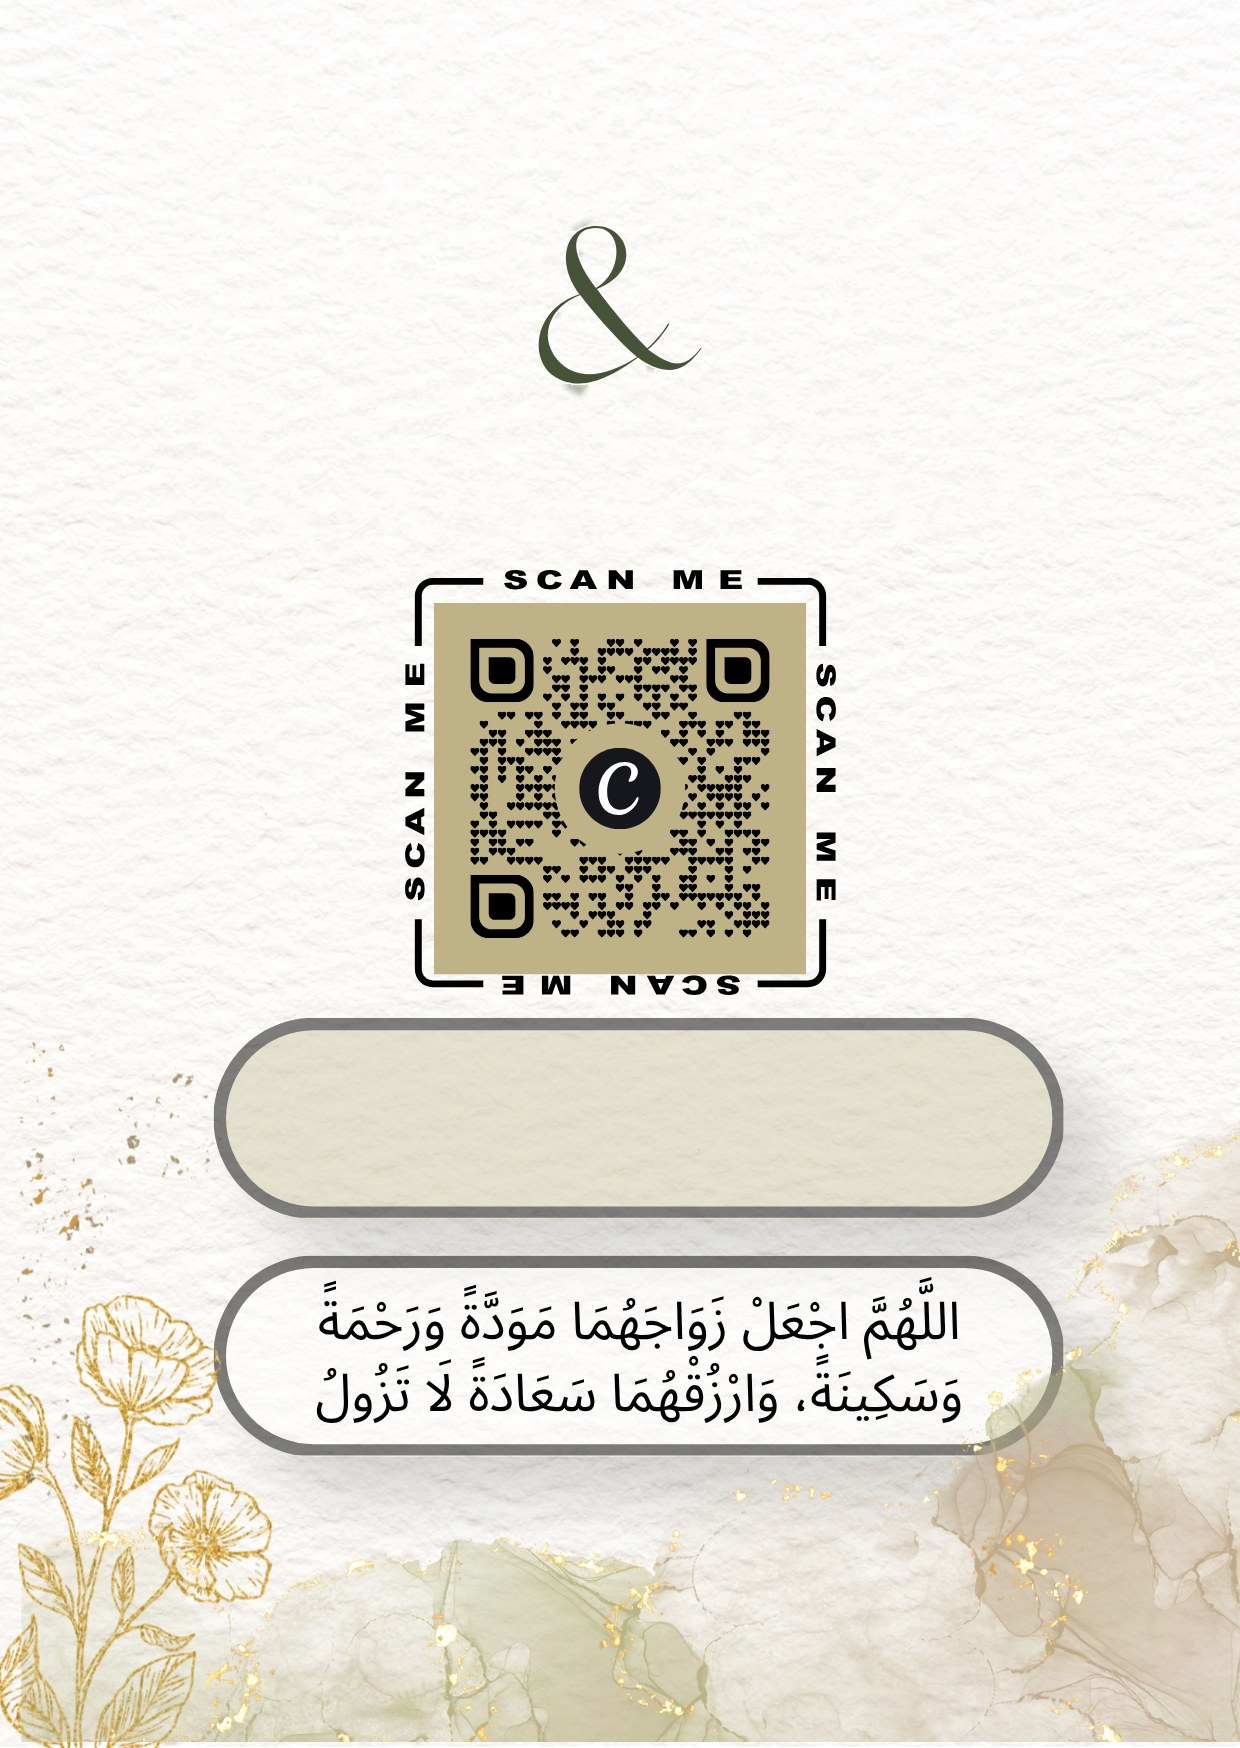
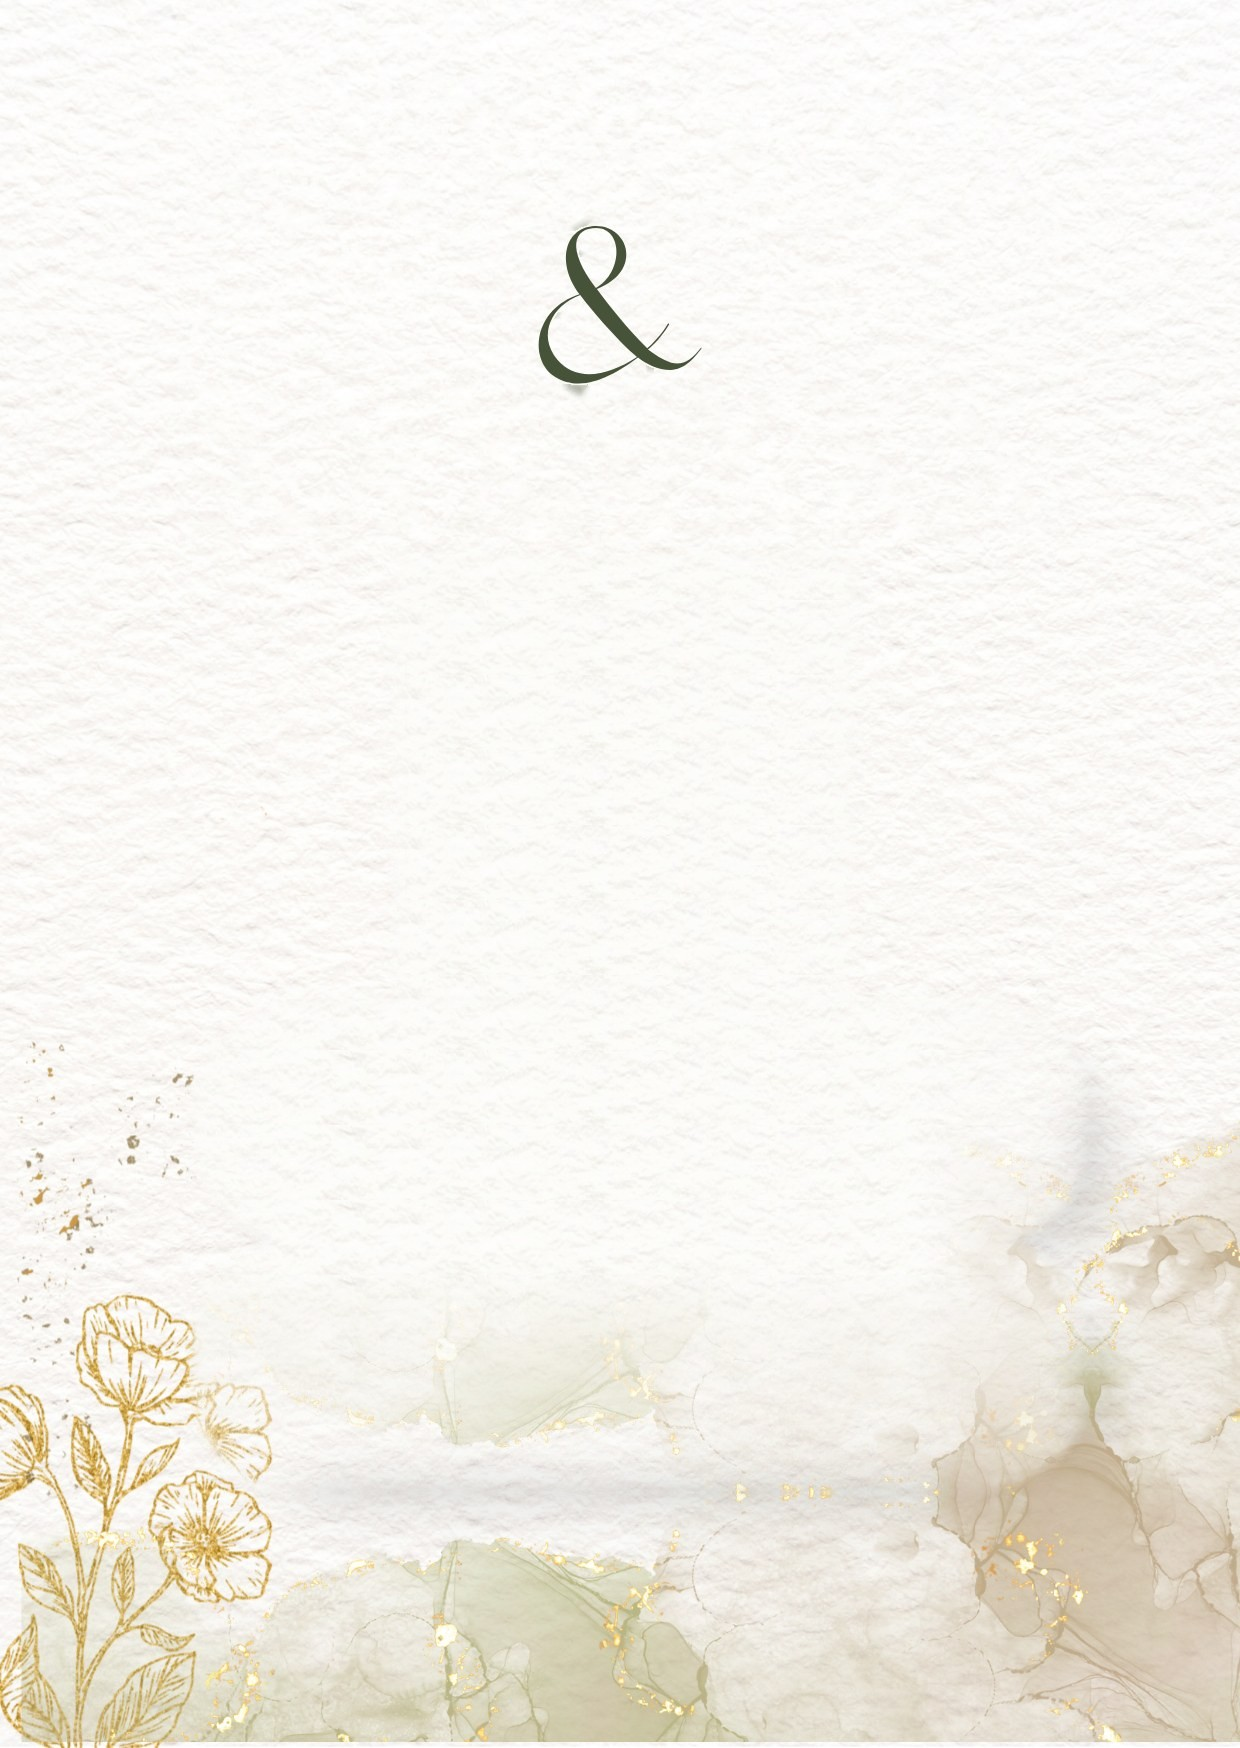
Carte : familles + texte d'invitation, 2 ovales en haut, QR en bas ; plus aucun lien (QR = code seul, message sans lien, vouvoiement)
Claude-Session: https://claude.ai/code/session_01TFZEW6Vd8rkpzaTNxLdMe2

Changed region(s): [[0.1532, 0.3089, 0.8887, 0.865]]

diff --git a/lib/card.js b/lib/card.js
@@ -21,9 +21,12 @@ function loadImage(src) {
   });
 }
 
+/** Contenu du QR : le code seul (aucun lien) */
+export const qrPayload = (token) => token;
+
 /** QR seul (PNG data URL) */
 export async function qrDataUrl(token, size = 1000) {
-  return QRCode.toDataURL(inviteUrl(token), {
+  return QRCode.toDataURL(qrPayload(token), {
     width: size,
     margin: 2,
     errorCorrectionLevel: "M",
@@ -31,10 +34,19 @@ export async function qrDataUrl(token, size = 1000) {
   });
 }
 
-/** Carte complète : fond + QR + nom, retourne un canvas */
+export function timesLine(s) {
+  return `Hommes : ${s.men_time}  ·  Femmes : ${s.women_time}`;
+}
+
+/** Carte : familles en haut, texte d'invitation, 2 ovales (infos + doua), QR en bas */
 export async function renderCard(settings, guest) {
   try {
-    await document.fonts.load(`600 80px ${NAME_FONT}`);
+    await Promise.all([
+      document.fonts.load(`600 80px ${NAME_FONT}`),
+      document.fonts.load(`italic 500 40px ${NAME_FONT}`),
+      document.fonts.load("400 40px Amiri"),
+      document.fonts.load("600 40px Inter"),
+    ]);
   } catch {}
   const bg = await loadImage(settings.card_bg || "/card.jpg");
   const W = bg.naturalWidth;
@@ -44,11 +56,85 @@ export async function renderCard(settings, guest) {
   c.height = H;
   const ctx = c.getContext("2d");
   ctx.drawImage(bg, 0, 0, W, H);
+  ctx.textAlign = "center";
+  ctx.textBaseline = "middle";
 
-  // QR : grand carré doré arrondi + QR dedans
+  const fit = (text, cx, cy, size, maxW, font, color) => {
+    let fs = Math.round(size);
+    ctx.font = font(fs);
+    while (ctx.measureText(text).width > maxW && fs > 14) {
+      fs -= 2;
+      ctx.font = font(fs);
+    }
+    ctx.fillStyle = color;
+    ctx.fillText(text, cx, cy);
+    return fs;
+  };
+  const serif = (w) => (fs) => `${w} ${fs}px ${NAME_FONT}`;
+
+  // 1. Les deux familles
+  const cw = ((settings.couple_w ?? 70) / 100) * W;
+  const cs = ((settings.couple_size ?? 9.5) / 100) * W;
+  const brideY = ((settings.bride_y ?? 26.2) / 100) * H;
+  if (settings.groom)
+    fit(settings.groom, W / 2, ((settings.groom_y ?? 8.9) / 100) * H, cs, cw, serif(600), settings.groom_color || "#4b5634");
+  if (settings.bride) fit(settings.bride, W / 2, brideY, cs, cw, serif(600), settings.bride_color || "#b3a06a");
+
+  // Géométrie des ovales
+  const px = (settings.name_x / 100) * W;
+  const pw = (settings.name_w / 100) * W;
+  const ph = H * 0.108;
+  const p1y = (settings.name_y / 100) * H; // centre ovale 1
+  const p2y = p1y + ph + H * 0.018; // centre ovale 2
+
+  // 2. Texte d'invitation entre les familles et les ovales
+  const tY = (brideY + cs * 0.45 + (p1y - ph / 2)) / 2;
+  const tfs = W * 0.043;
+  const tcol = "#5a5f4a";
+  fit("vous invitent au déjeuner de mariage", W / 2, tY - tfs * 0.62, tfs, W * 0.84, serif("italic 500"), tcol);
+  fit("de leurs enfants", W / 2, tY + tfs * 0.62, tfs, W * 0.84, serif("italic 500"), tcol);
+
+  // 3. Les deux ovales
+  const pill = (cy, fill) => {
+    ctx.save();
+    ctx.shadowColor = "rgba(60,50,20,.22)";
+    ctx.shadowBlur = W * 0.02;
+    ctx.shadowOffsetY = W * 0.006;
+    ctx.fillStyle = fill;
+    roundRect(ctx, px - pw / 2, cy - ph / 2, pw, ph, ph / 2);
+    ctx.fill();
+    ctx.restore();
+    ctx.lineWidth = W * 0.0075;
+    ctx.strokeStyle = "#7c7c78";
+    roundRect(ctx, px - pw / 2, cy - ph / 2, pw, ph, ph / 2);
+    ctx.stroke();
+  };
+  pill(p1y, "#e4e1ce");
+  pill(p2y, "#faf8f2");
+
+  const infoCol = settings.name_color || "#3f4a2f";
+  const lines = [];
+  if (settings.venue) lines.push([settings.venue, 700]);
+  lines.push([cap(formatDate(settings.event_date)), 600]);
+  lines.push([timesLine(settings), 600]);
+  const ifs = W * (lines.length > 2 ? 0.033 : 0.038);
+  const ilh = ifs * 1.25;
+  lines.forEach(([t, w], i) => fit(t, px, p1y + (i - (lines.length - 1) / 2) * ilh, ifs, pw * 0.82, serif(w), infoCol));
+
+  // Doua dans l'ovale 2 (2 lignes, de droite à gauche)
+  ctx.direction = "rtl";
+  const afs = W * 0.04;
+  ctx.font = `400 ${afs}px Amiri, serif`;
+  const parts = DOUA_1.split("، ");
+  const dl = parts.length === 2 ? [parts[0] + "،", parts[1]] : [DOUA_1];
+  dl.forEach((t, i) => fit(t, px, p2y + (i - (dl.length - 1) / 2) * afs * 1.45, afs, pw * 0.84, (fs) => `400 ${fs}px Amiri, serif`, "#1e1e1e"));
+  ctx.direction = "ltr";
+
+  // 4. QR tout en bas
   const size = Math.round((settings.qr_size / 100) * W);
   const x = Math.round((settings.qr_x / 100) * W);
   const y = Math.round((settings.qr_y / 100) * H);
+  fit("PRÉSENTEZ CE QR CODE À L'ENTRÉE", W / 2, y - W * 0.03, W * 0.024, W * 0.8, (fs) => `700 ${fs}px Inter, sans-serif`, "#4b5634");
   const r = size * 0.06;
   ctx.save();
   ctx.shadowColor = "rgba(60,50,20,.25)";
@@ -60,51 +146,13 @@ export async function renderCard(settings, guest) {
   ctx.restore();
   const pad = Math.round(size * 0.035);
   const qrCanvas = document.createElement("canvas");
-  await QRCode.toCanvas(qrCanvas, inviteUrl(guest.token), {
+  await QRCode.toCanvas(qrCanvas, qrPayload(guest.token), {
     width: size - pad * 2,
     margin: 1,
     errorCorrectionLevel: "M",
     color: { dark: "#141414", light: "#c9bc93" },
   });
   ctx.drawImage(qrCanvas, x + pad, y + pad, size - pad * 2, size - pad * 2);
-
-  ctx.textAlign = "center";
-  ctx.textBaseline = "middle";
-
-  // Écrit une ligne centrée, réduite si trop large
-  const fit = (text, cx, cy, size, maxW, weight, color) => {
-    let fs = Math.round(size);
-    ctx.font = `${weight} ${fs}px ${NAME_FONT}`;
-    while (ctx.measureText(text).width > maxW && fs > 14) {
-      fs -= 2;
-      ctx.font = `${weight} ${fs}px ${NAME_FONT}`;
-    }
-    ctx.fillStyle = color;
-    ctx.fillText(text, cx, cy);
-  };
-
-  // Noms des mariés (à la place des XXXXXX)
-  const cw = ((settings.couple_w ?? 70) / 100) * W;
-  const cs = ((settings.couple_size ?? 9.5) / 100) * W;
-  if (settings.groom)
-    fit(settings.groom, W / 2, ((settings.groom_y ?? 8.9) / 100) * H, cs, cw, 600, settings.groom_color || "#4b5634");
-  if (settings.bride)
-    fit(settings.bride, W / 2, ((settings.bride_y ?? 26.2) / 100) * H, cs, cw, 600, settings.bride_color || "#b3a06a");
-
-  // Ovale : lieu, date, heure
-  const isF = guest.gender === "F";
-  const lines = [];
-  if (settings.venue) lines.push([settings.venue, 700]);
-  lines.push([cap(formatDate(settings.event_date)), 600]);
-  lines.push([`${isF ? "Femmes" : "Hommes"} · ${isF ? settings.women_time : settings.men_time}`, 600]);
-  const fs = W * 0.036;
-  const lh = fs * 1.22;
-  const ix = (settings.name_x / 100) * W;
-  const iy = (settings.name_y / 100) * H;
-  const iw = (settings.name_w / 100) * W;
-  lines.forEach(([t, w], i) => {
-    fit(t, ix, iy + (i - (lines.length - 1) / 2) * lh, fs, iw, w, settings.name_color || "#3f4a2f");
-  });
   return c;
 }
 
@@ -160,10 +208,10 @@ export async function renderFullPage(settings, guest) {
   // Blocs : [texte, font, couleur, interligne, espace avant, rtl]
   const blocks = [
     [fullName(guest), `600 ${W * 0.06}px ${NAME_FONT}`, olive, 1.15, 0],
-    [`Tu es ${isF ? "invitée" : "invité"} au mariage de`, `400 ${W * 0.03}px ${INTER}`, muted, 1.3, W * 0.02],
+    [`Vous êtes ${isF ? "invitée" : "invité"} au déjeuner de mariage de`, `400 ${W * 0.03}px ${INTER}`, muted, 1.3, W * 0.02],
     [settings.bride ? `${settings.groom} & ${settings.bride}` : settings.groom, `700 ${W * 0.045}px ${NAME_FONT}`, ink, 1.2, W * 0.005],
     [cap(formatDate(settings.event_date)), `600 ${W * 0.034}px ${INTER}`, ink, 1.3, W * 0.03],
-    [`${isF ? "Réception des femmes" : "Réception des hommes"} · ${isF ? settings.women_time : settings.men_time}`, `600 ${W * 0.034}px ${INTER}`, olive, 1.3, W * 0.008],
+    [timesLine(settings), `600 ${W * 0.034}px ${INTER}`, olive, 1.3, W * 0.008],
   ];
   if (settings.venue) blocks.push([`Lieu : ${settings.venue}`, `400 ${W * 0.03}px ${INTER}`, ink, 1.3, W * 0.012]);
   blocks.push(
@@ -171,7 +219,7 @@ export async function renderFullPage(settings, guest) {
     [DOUA_1_FR, `italic 500 ${W * 0.03}px ${NAME_FONT}`, muted, 1.3, W * 0.01],
     [DOUA_2, `400 ${W * 0.042}px ${AR}`, olive, 1.55, W * 0.03, true],
     [DOUA_2_FR, `italic 500 ${W * 0.03}px ${NAME_FONT}`, muted, 1.3, W * 0.01],
-    ["Présente ce QR code à l'entrée.", `700 ${W * 0.036}px ${INTER}`, gold, 1.3, W * 0.045],
+    ["Merci de présenter ce QR code à l'entrée.", `700 ${W * 0.036}px ${INTER}`, gold, 1.3, W * 0.045],
     ["Il est personnel et valable pour une seule entrée.", `400 ${W * 0.026}px ${INTER}`, muted, 1.3, W * 0.006]
   );
 

diff --git a/lib/message.js b/lib/message.js
@@ -1,4 +1,4 @@
-import { fullName, inviteUrl } from "./card";
+import { fullName, timesLine } from "./card";
 import { formatDate } from "./format";
 export { formatDate };
 
@@ -6,33 +6,26 @@ export function couple(s) {
   return s.bride ? `${s.groom} & ${s.bride}` : s.groom;
 }
 
-export function buildMessage(s, g) {
-  const isF = g.gender === "F";
-  return [
-    `Assalamou alaykoum *${fullName(g)}* 🤍`,
-    ``,
-    `Tu es ${isF ? "invitée" : "invité"} au mariage de *${couple(s)}*.`,
-    ``,
-    `🎟 Ton invitation :`,
-    inviteUrl(g.token),
-  ].join("\n");
-}
-
+/** Message WhatsApp — sans aucun lien */
 export function shareText(s, g) {
   const isF = g.gender === "F";
-  return [
+  const lines = [
     `Assalamou alaykoum *${fullName(g)}* 🤍`,
-    `Tu es ${isF ? "invitée" : "invité"} au mariage de *${couple(s)}*.`,
-    `📲 Présente ce QR code à l'entrée.`,
-  ].join("\n");
+    ``,
+    `Vous êtes ${isF ? "invitée" : "invité"} au mariage de *${couple(s)}* pour le déjeuner, le *${formatDate(s.event_date)}*.`,
+    ``,
+    `🕐 ${timesLine(s)}`,
+  ];
+  if (s.venue) lines.push(`📍 ${s.venue}`);
+  lines.push(``, `📲 Merci de présenter le QR code à l'entrée.`);
+  return lines.join("\n");
 }
+
+export const buildMessage = shareText;
 
 export function whatsappTextLink(s, g) {
   const num = `${g.phone_prefix}${g.phone}`.replace(/\D/g, "");
   return `https://wa.me/${num}?text=${encodeURIComponent(shareText(s, g))}`;
 }
 
-export function whatsappLink(s, g) {
-  const num = `${g.phone_prefix}${g.phone}`.replace(/\D/g, "");
-  return `https://wa.me/${num}?text=${encodeURIComponent(buildMessage(s, g))}`;
-}
+export const whatsappLink = whatsappTextLink;

diff --git a/app/i/[token]/page.js b/app/i/[token]/page.js
@@ -58,7 +58,7 @@ export default function Invitation({ params }) {
       {img ? <img className="cardimg" src={img} alt="Carte d'invitation" /> : <div className="loading" style={{ minHeight: 400 }}>…</div>}
       <div className="info">
         <div className="t">{fullName(g)}</div>
-        <p>Tu es {isF ? "invitée" : "invité"} au mariage de</p>
+        <p>Vous êtes {isF ? "invitée" : "invité"} au mariage de</p>
         <p className="serif" style={{ fontSize: 24, fontWeight: 700, color: "var(--ink)", margin: "2px 0 10px" }}>{couple(s)}</p>
         <p style={{ color: "var(--ink)", fontWeight: 600 }}>{cap(formatDate(s.event_date))}</p>
         <p style={{ color: "var(--olive)", fontWeight: 600 }}>
